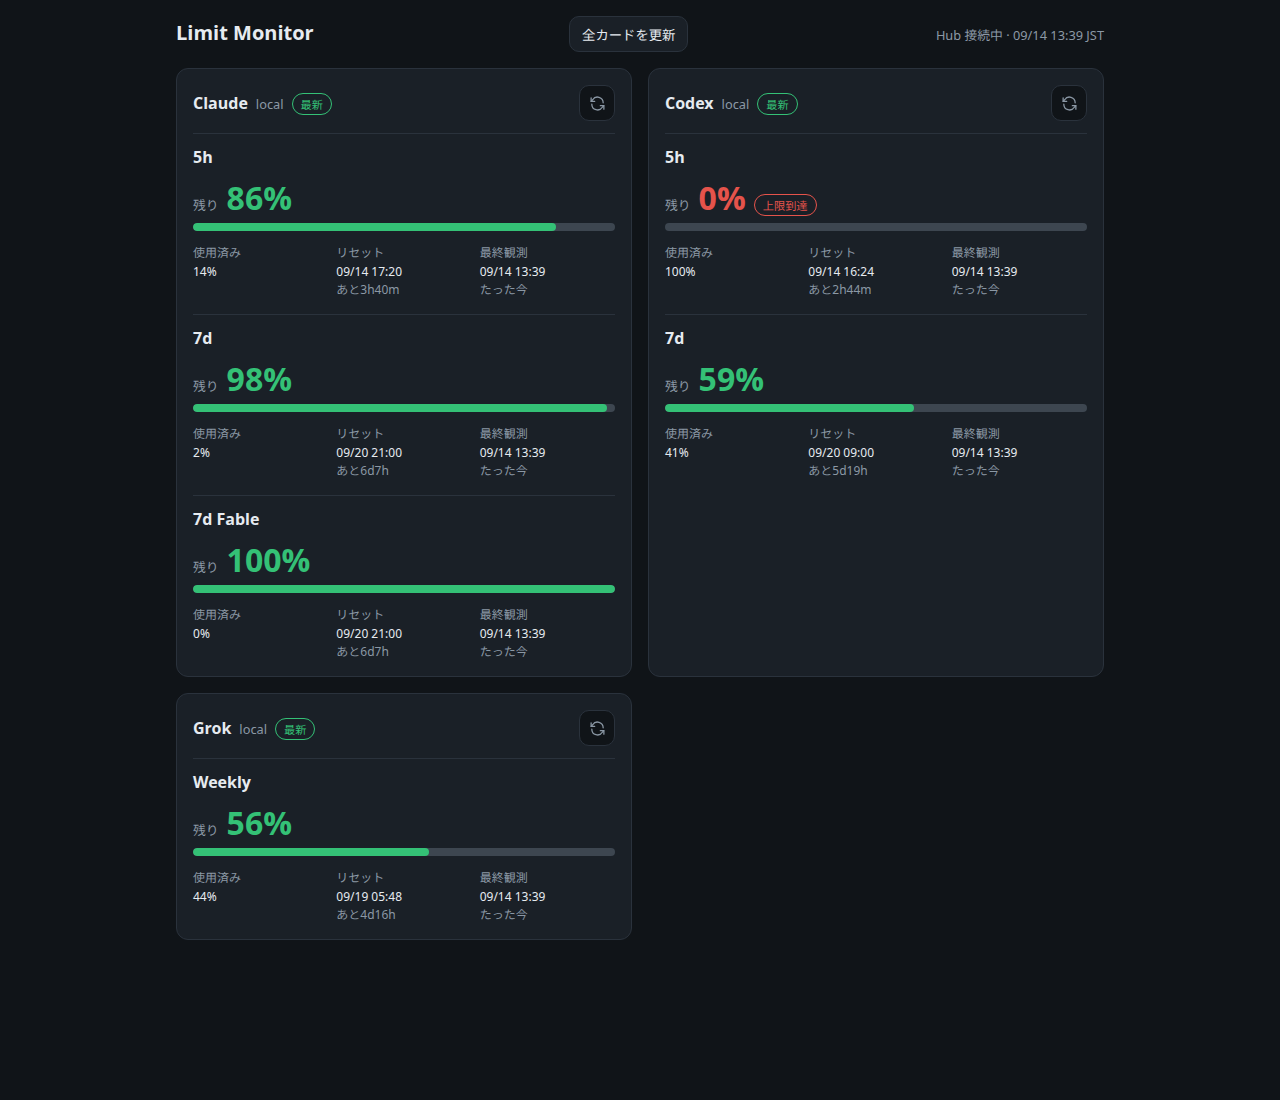
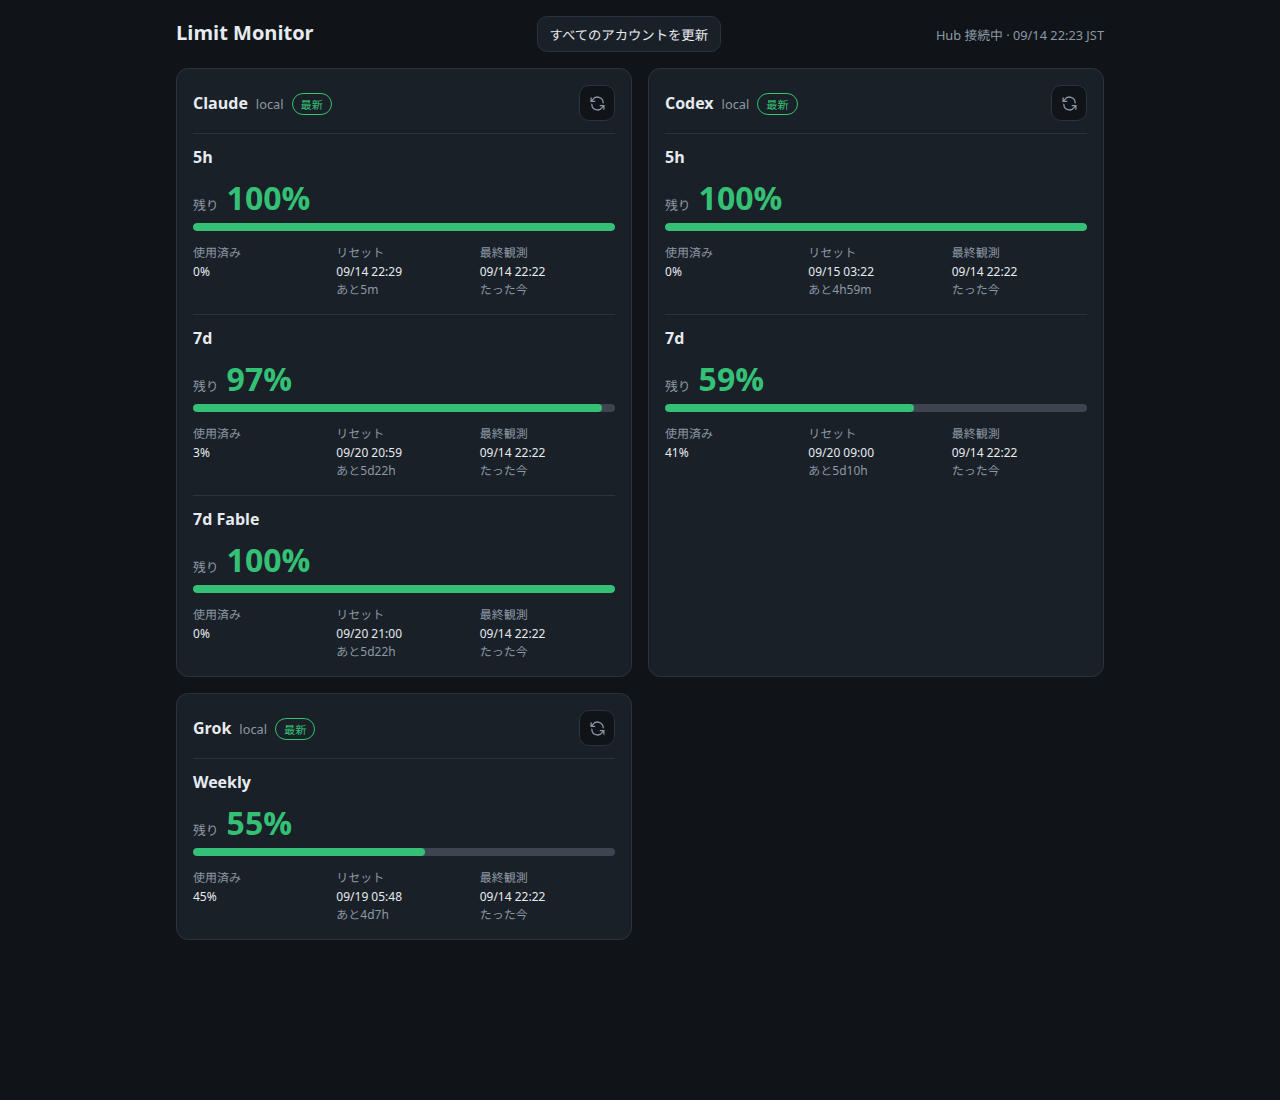
fix(client): use account wording for bulk refresh

diff --git a/packages/client/app/routes/dashboard.tsx b/packages/client/app/routes/dashboard.tsx
@@ -62,13 +62,13 @@ export default function Dashboard({ loaderData: result }: Route.ComponentProps) 
 
   const refreshAllMessage =
     refreshAllState === 'updating'
-      ? '全カードを更新中…'
+      ? 'すべてのアカウントを更新中…'
       : refreshAllState === 'failed'
-        ? '一部のカードを更新できませんでした'
+        ? '一部のアカウントを更新できませんでした'
         : refreshAllState === 'offline'
           ? 'Hub に接続できませんでした'
           : refreshAllState === 'timeout'
-            ? '全カードの更新がタイムアウトしました'
+            ? 'すべてのアカウントの更新がタイムアウトしました'
             : undefined
 
   return (
@@ -91,7 +91,7 @@ export default function Dashboard({ loaderData: result }: Route.ComponentProps) 
           disabled={!result.ok || result.body.accounts.length === 0 || refreshingAll}
           aria-busy={refreshingAll}
         >
-          {refreshingAll ? '更新中…' : '全カードを更新'}
+          {refreshingAll ? '更新中…' : 'すべてのアカウントを更新'}
         </button>
         {/* Result 型の絞り込みが必要なため条件分岐で描画する */}
         {result.ok ? (

diff --git a/packages/client/app/routes/dashboard.test.tsx b/packages/client/app/routes/dashboard.test.tsx
@@ -86,12 +86,12 @@ test('Hub へ到達できない場合は OFFLINE 表示へ落ちる', async () =
   expect(screen.getByText('Limit Hub へ接続できません')).toBeTruthy()
 })
 
-test('全カードを更新ボタンは表示中の全アカウントを更新する', async () => {
+test('すべてのアカウントを更新するボタンは表示中の全アカウントを更新する', async () => {
   fetchStatus.mockResolvedValue(onlineWithAccounts)
 
   renderDashboard()
 
-  const button = await screen.findByRole('button', { name: '全カードを更新' })
+  const button = await screen.findByRole('button', { name: 'すべてのアカウントを更新' })
   fireEvent.click(button)
   await vi.waitFor(() => expect(refreshAccount).toHaveBeenCalledTimes(2))
   expect(refreshAccount.mock.calls.map(([account]) => account.accountAlias)).toEqual([

diff --git a/scripts/capture-dashboard-screenshot.ts b/scripts/capture-dashboard-screenshot.ts
@@ -65,7 +65,7 @@ async function main() {
     })
 
     const dom = await readFile(domPath, 'utf8')
-    if (!dom.includes('全カードを更新')) {
+    if (!dom.includes('すべてのアカウントを更新')) {
       throw new Error('dashboard did not render the bulk refresh button')
     }
     if (!dom.includes('class="card"')) {

diff --git a/README.md b/README.md
@@ -58,7 +58,7 @@ Dashboardの実画面を確認してrepositoryのscreenshotを更新:
 npm run screenshot:dashboard
 ```
 
-スクリプトはChromiumで画面を一定時間待ってから、全カード更新ボタンとカード描画を確認します。カードが表示されない場合は既存の画像を置き換えず失敗します。接続先や出力先を変更する場合は`--url`、`--output`、Chromiumの場所は`--chromium`で指定できます。
+スクリプトはChromiumで画面を一定時間待ってから、すべてのアカウントを更新するボタンとアカウント描画を確認します。アカウントが表示されない場合は既存の画像を置き換えず失敗します。接続先や出力先を変更する場合は`--url`、`--output`、Chromiumの場所は`--chromium`で指定できます。
 
 Collectorを手動起動する場合は、Hub tokenを環境変数で渡します。
 
